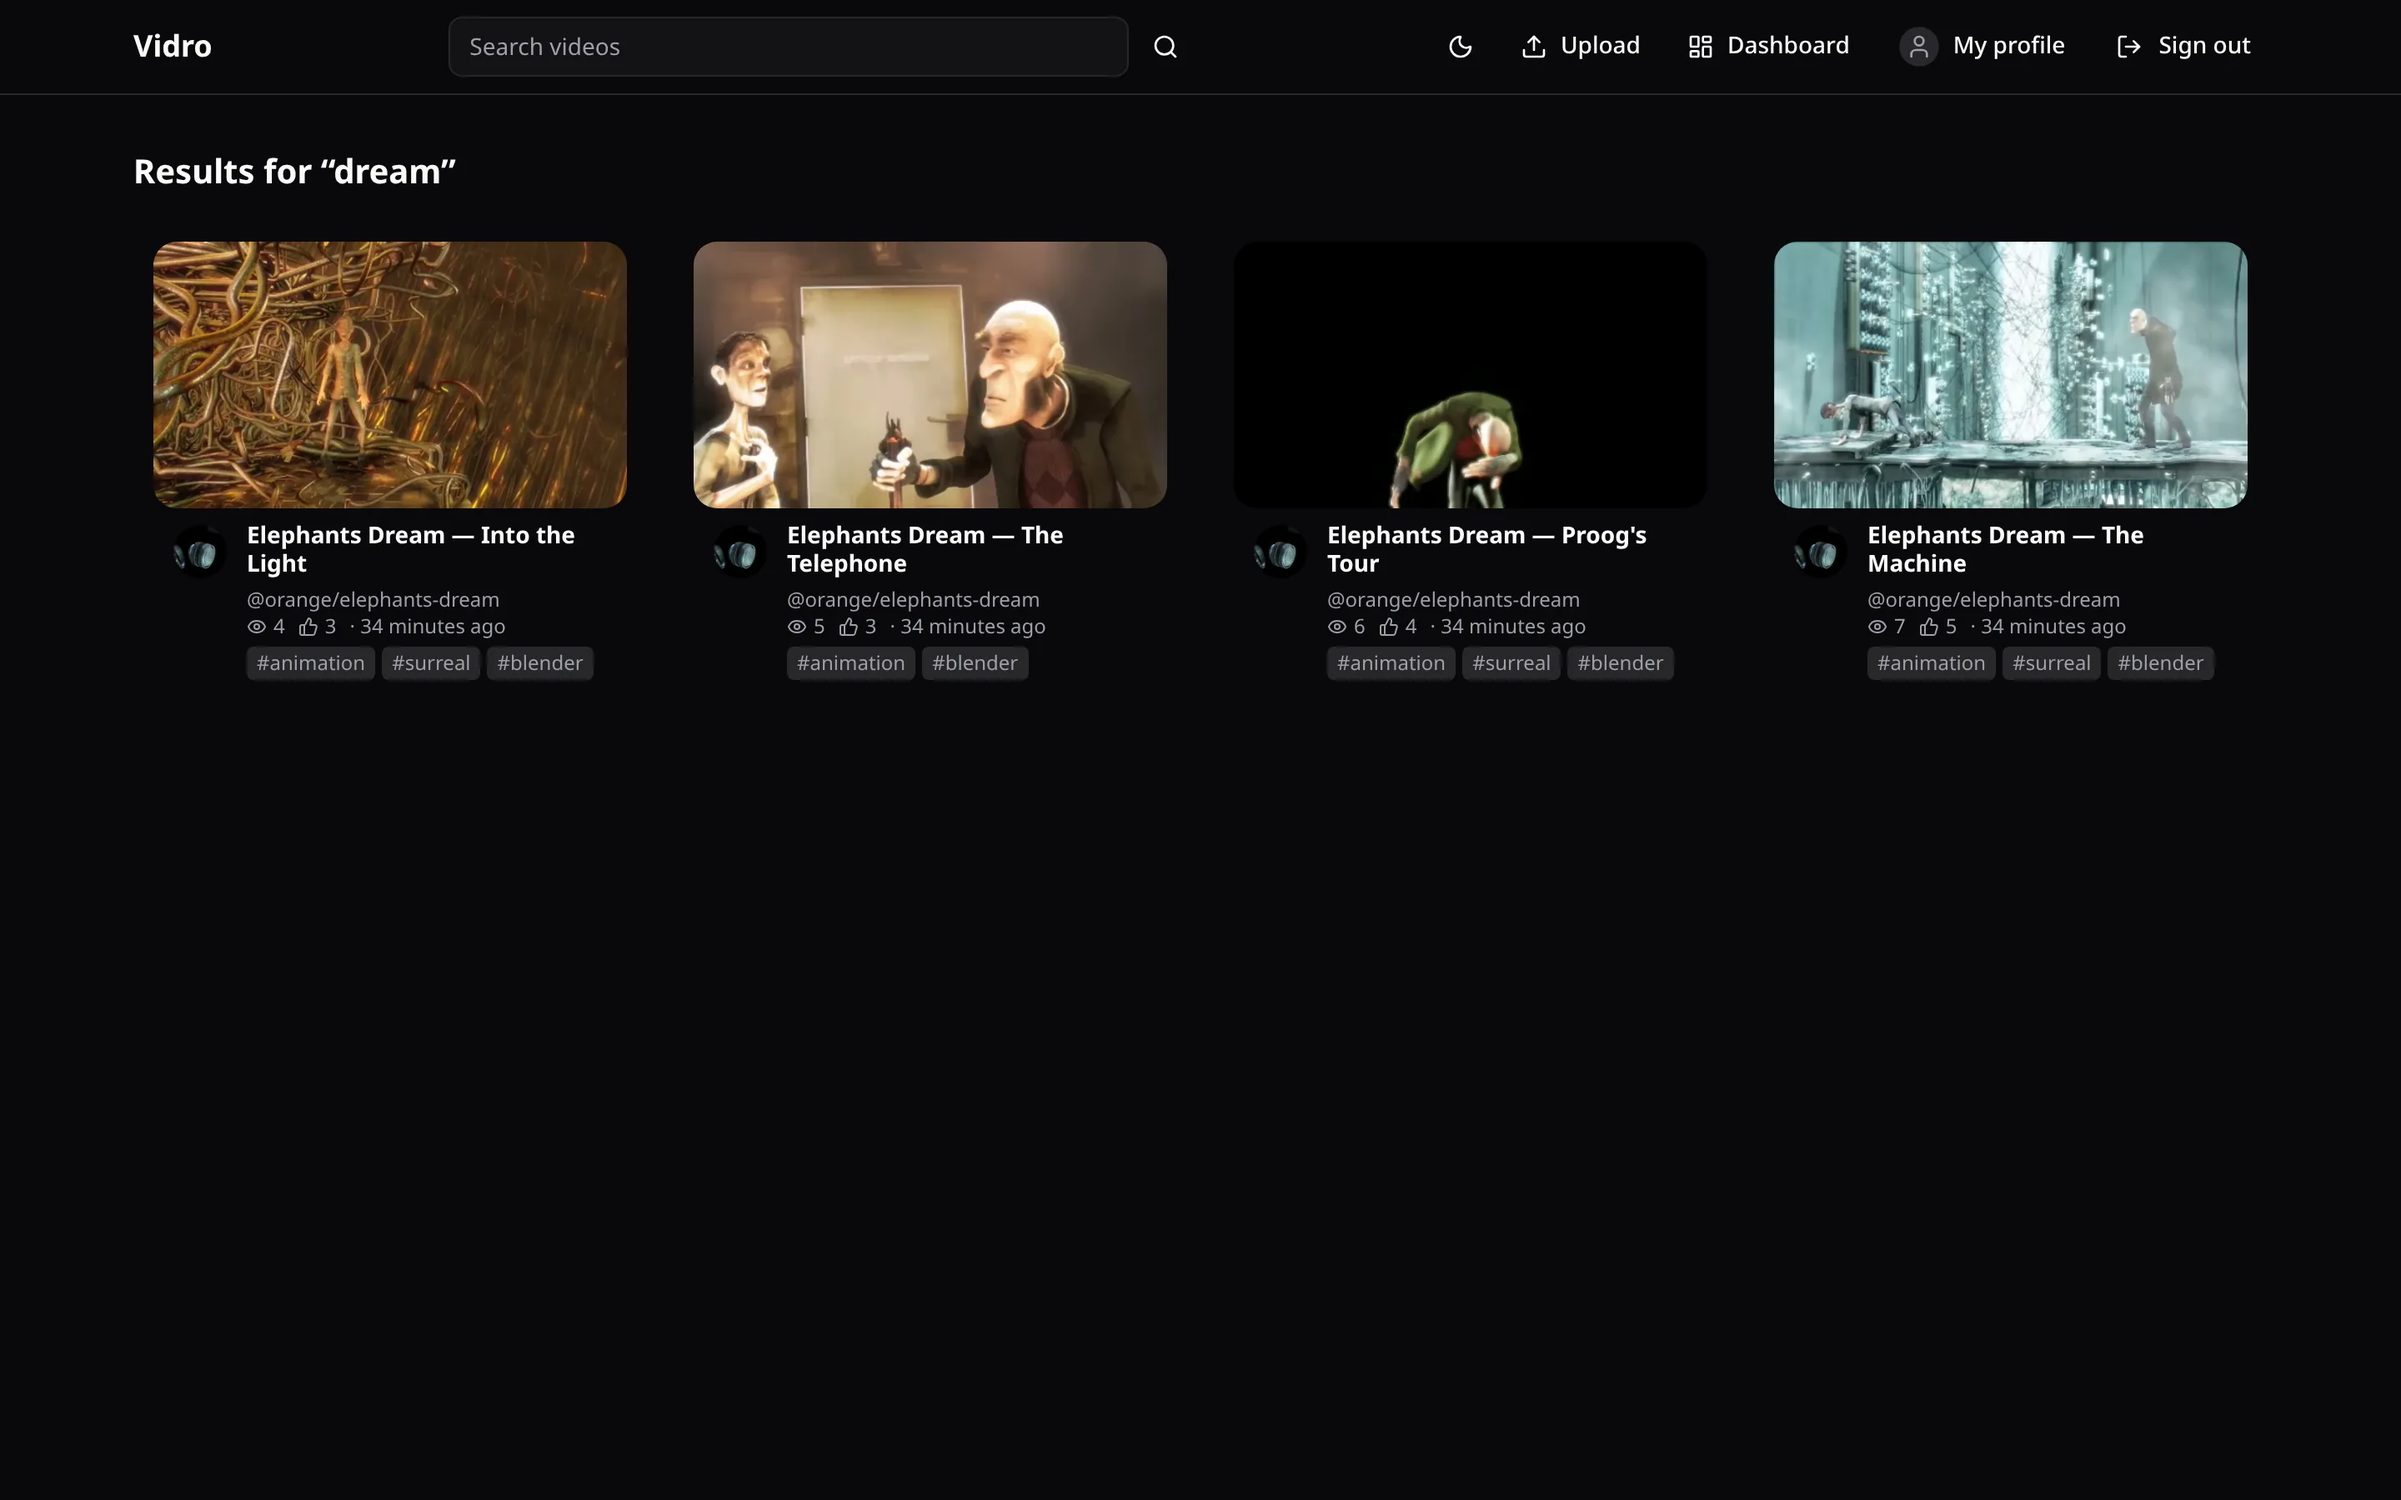
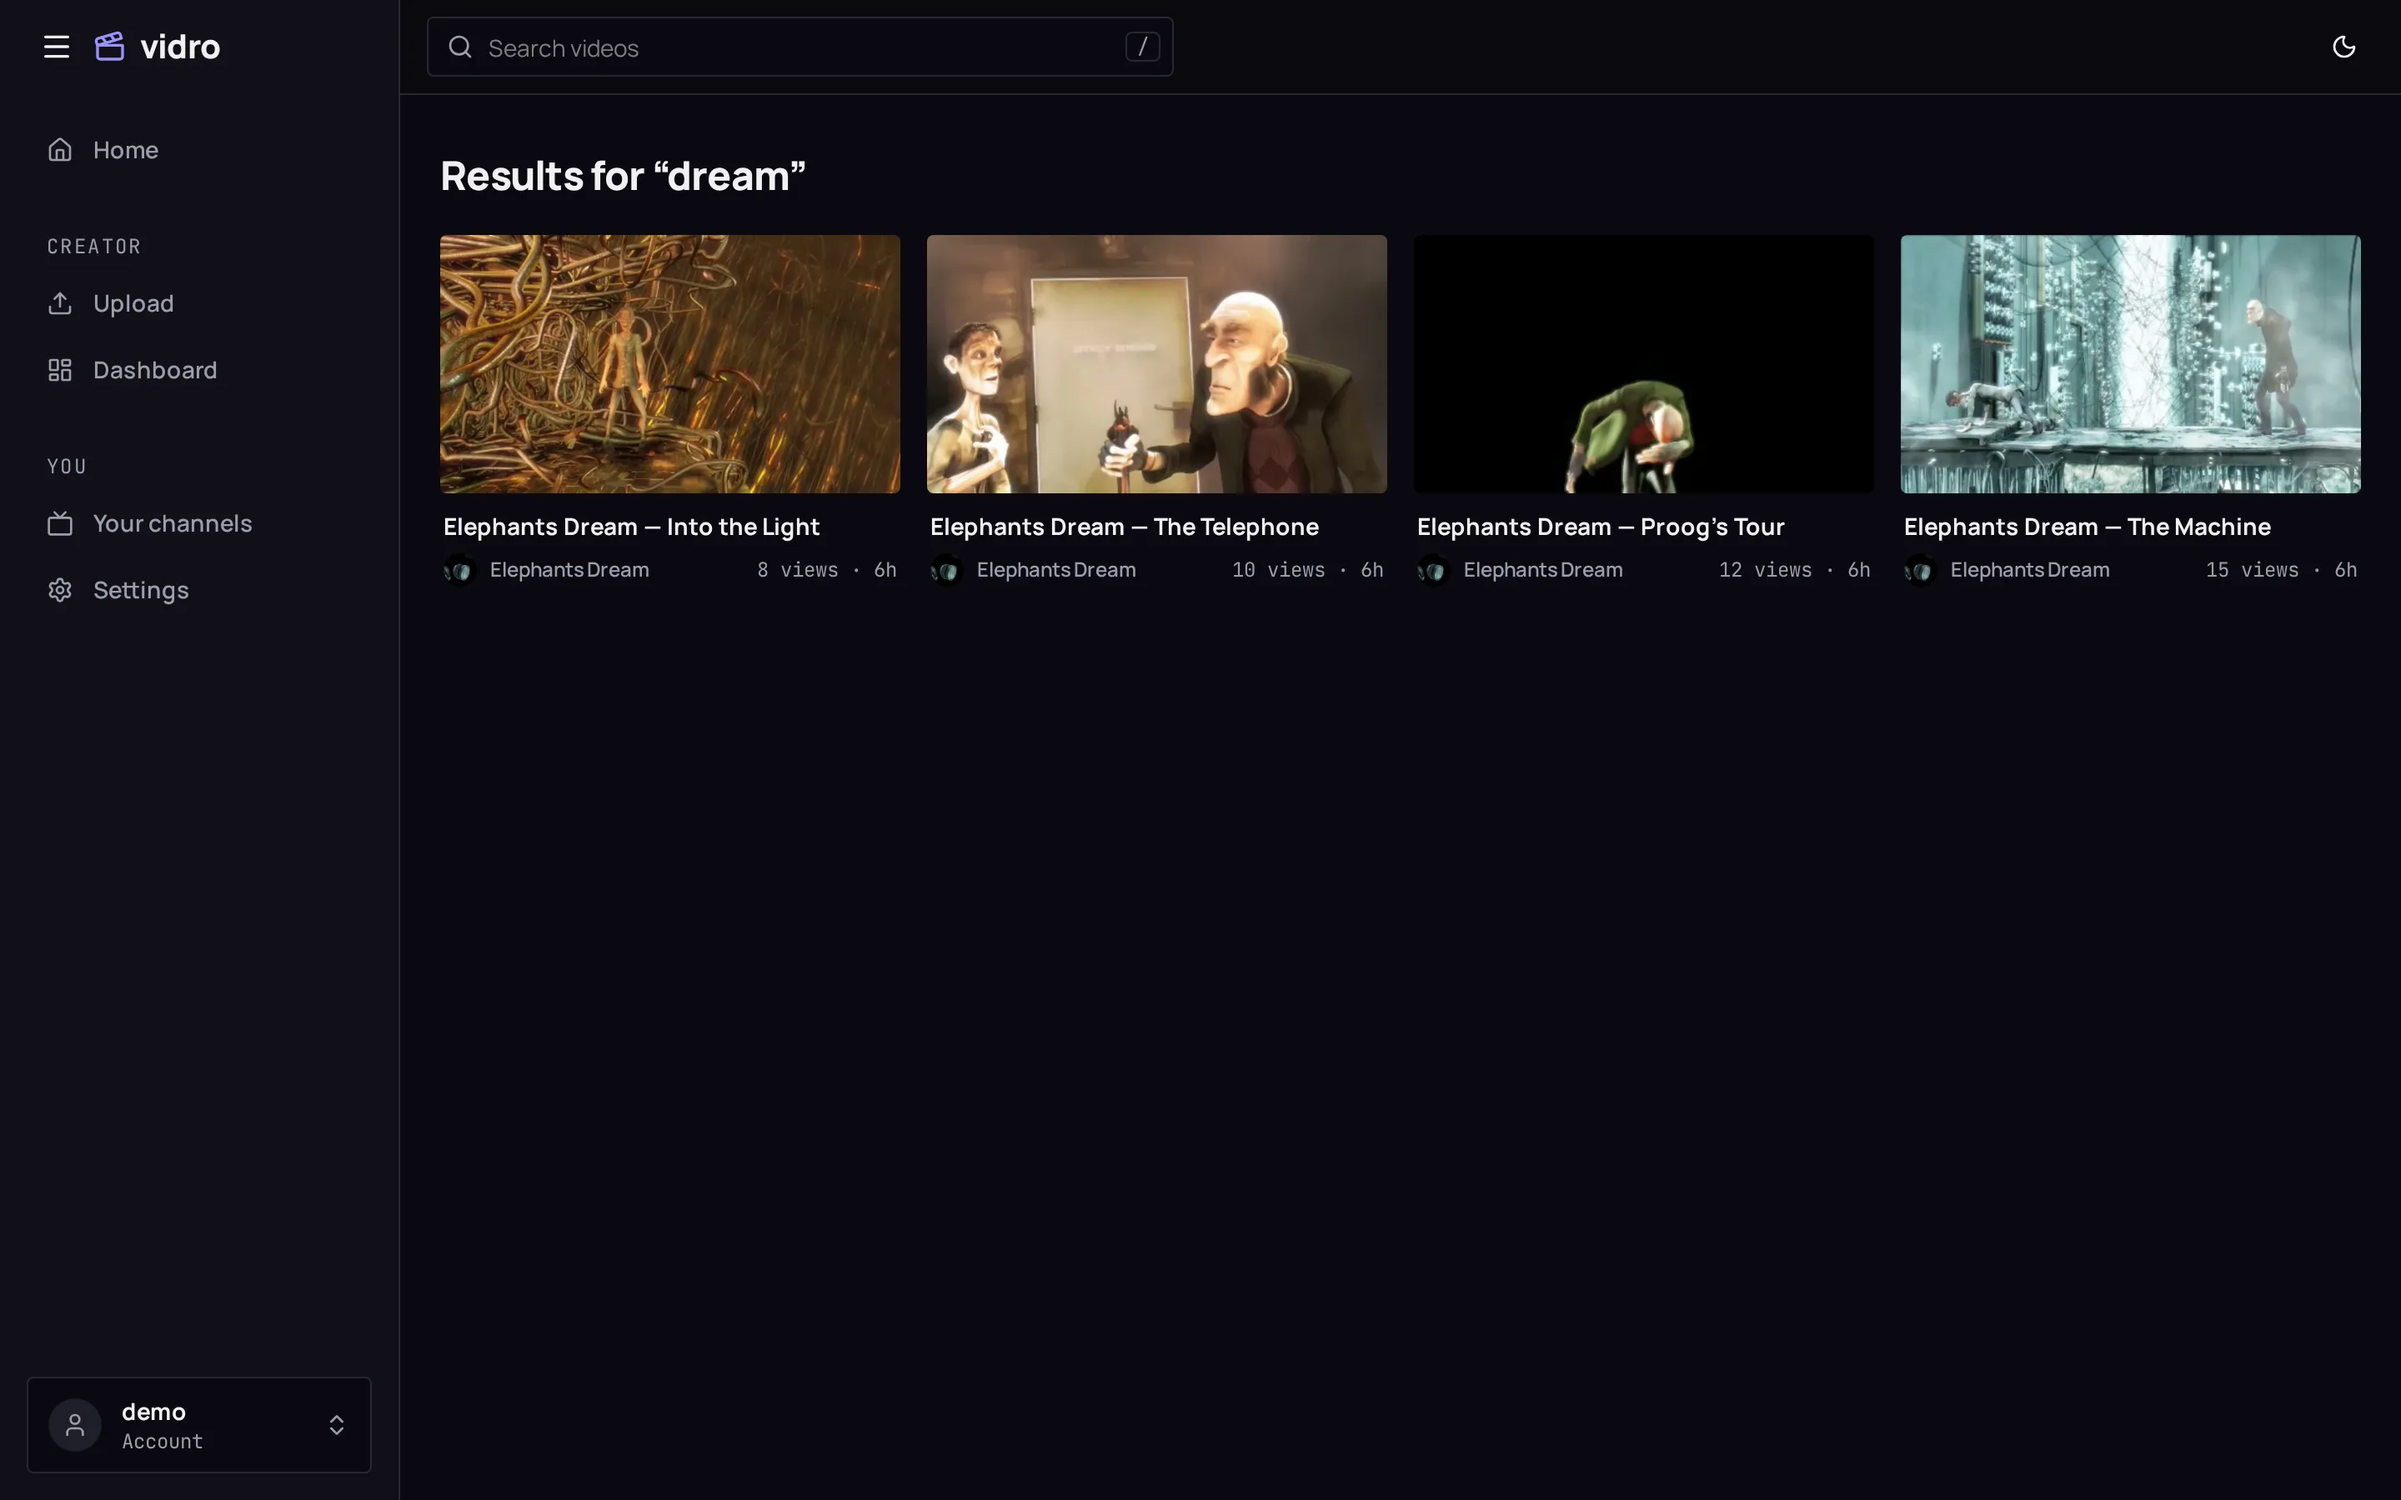
docs: refresh the README screens with the new visual identity

diff --git a/README.md b/README.md
@@ -6,7 +6,7 @@ Built to show a real pipeline — Redis job lease, a 7-step FFmpeg worker, HMAC 
 
 <picture>
   <source media="(prefers-color-scheme: dark)" srcset="docs/media/home-dark.webp">
-  <img alt="Vidro home page: the signed-in feed, a grid of video cards with thumbnails, view and like counts" src="docs/media/home-light.webp">
+  <img alt="Vidro home page: the left sidebar, and the signed-in feed as a grid of video cards — a featured first card, then thumbnails with channel, views and age" src="docs/media/home-light.webp">
 </picture>
 
 The older split repos (`VidroApi`, `VidroFront`, `VidroProcessor`) are archived. This repo is the source of truth.
@@ -34,10 +34,10 @@ Upload to playback through the real pipeline — presigned PUT, worker, webhook 
 
 | | |
 |---|---|
-| <picture><source media="(prefers-color-scheme: dark)" srcset="docs/media/watch-dark.webp"><img alt="Watch page: player, title, channel, likes and the comment thread" src="docs/media/watch-light.webp"></picture> | <picture><source media="(prefers-color-scheme: dark)" srcset="docs/media/channel-dark.webp"><img alt="Channel page: avatar, description, followers and the channel's videos" src="docs/media/channel-light.webp"></picture> |
-| **Watch** — processed MP4, reactions, threaded comments | **Channel** — avatar, followers, videos, playlists |
-| <picture><source media="(prefers-color-scheme: dark)" srcset="docs/media/search-dark.webp"><img alt="Search results for 'dream'" src="docs/media/search-light.webp"></picture> | <picture><source media="(prefers-color-scheme: dark)" srcset="docs/media/playlist-dark.webp"><img alt="Playlist page with four videos and their durations" src="docs/media/playlist-light.webp"></picture> |
-| **Search** — over titles and tags, public videos only | **Playlists** — per user or per channel, public or private |
+| <picture><source media="(prefers-color-scheme: dark)" srcset="docs/media/watch-dark.webp"><img alt="Watch page: player, title, channel, reactions, Save, the description box, comments, and the Up next column" src="docs/media/watch-light.webp"></picture> | <picture><source media="(prefers-color-scheme: dark)" srcset="docs/media/channel-dark.webp"><img alt="Channel page: cover, avatar, followers, description, and the Videos and Playlists tabs" src="docs/media/channel-light.webp"></picture> |
+| **Watch** — HLS player with a theater mode, reactions, Save to playlists, threaded comments, Up next | **Channel** — cover, avatar, followers, Videos and Playlists tabs |
+| <picture><source media="(prefers-color-scheme: dark)" srcset="docs/media/search-dark.webp"><img alt="Search results for 'dream'" src="docs/media/search-light.webp"></picture> | <picture><source media="(prefers-color-scheme: dark)" srcset="docs/media/playlist-dark.webp"><img alt="Playlist page: a cover panel with Play all beside the four videos in order, with their durations" src="docs/media/playlist-light.webp"></picture> |
+| **Search** — over titles and tags, public videos only | **Playlists** — per user or per channel, public or private; Play all runs them in order |
 
 <p>
   <img alt="Home page on a phone" src="docs/media/mobile-home.webp" width="240">
